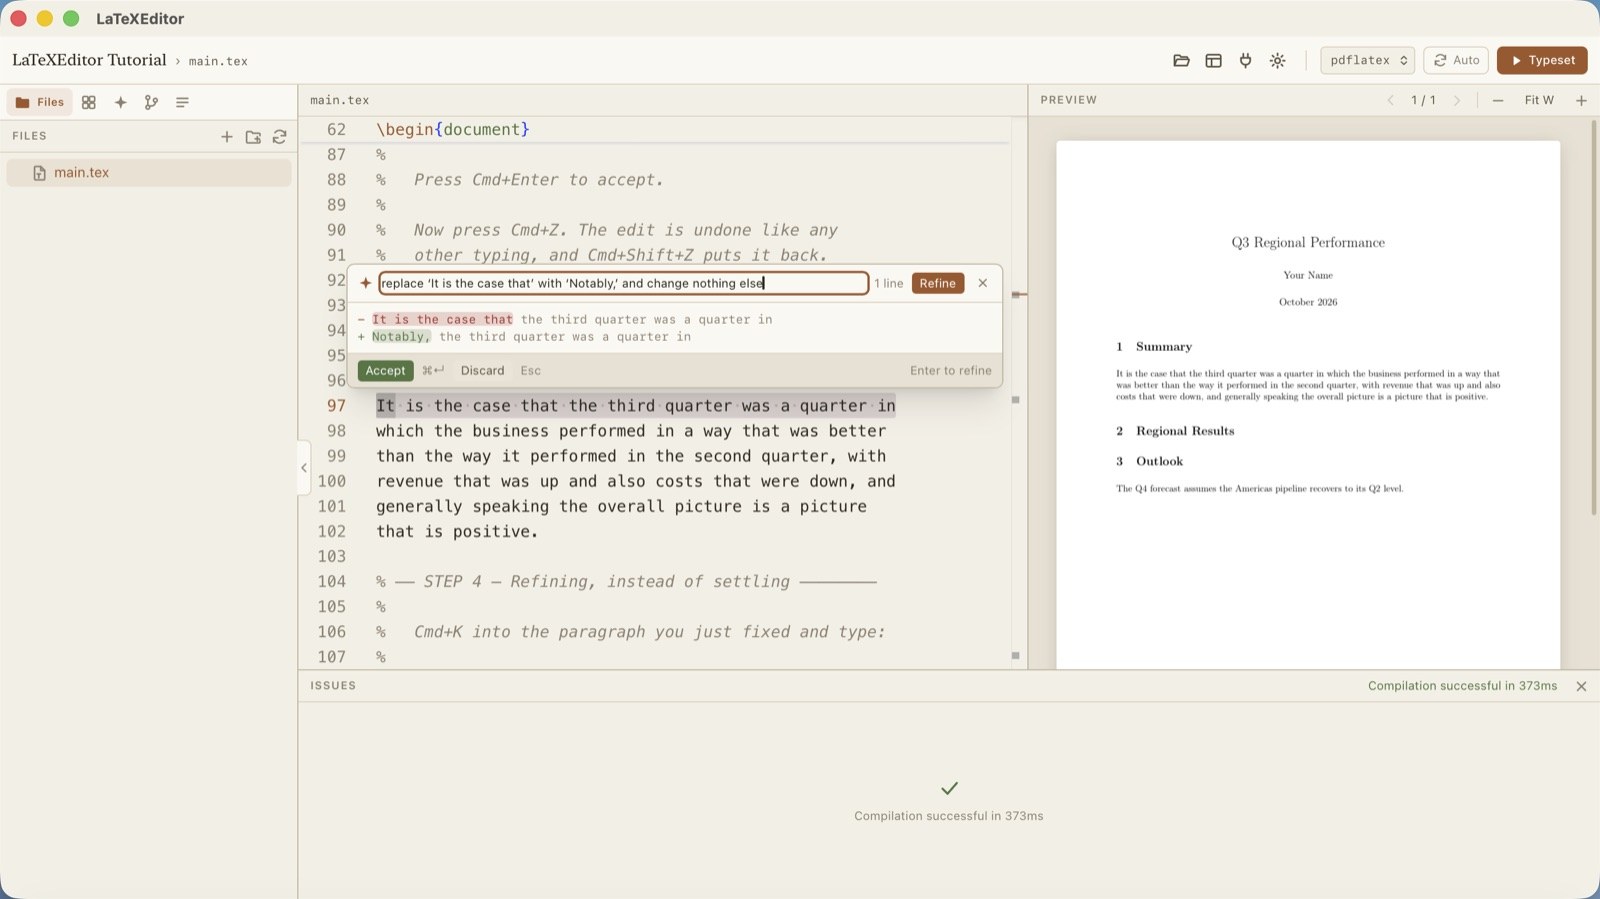
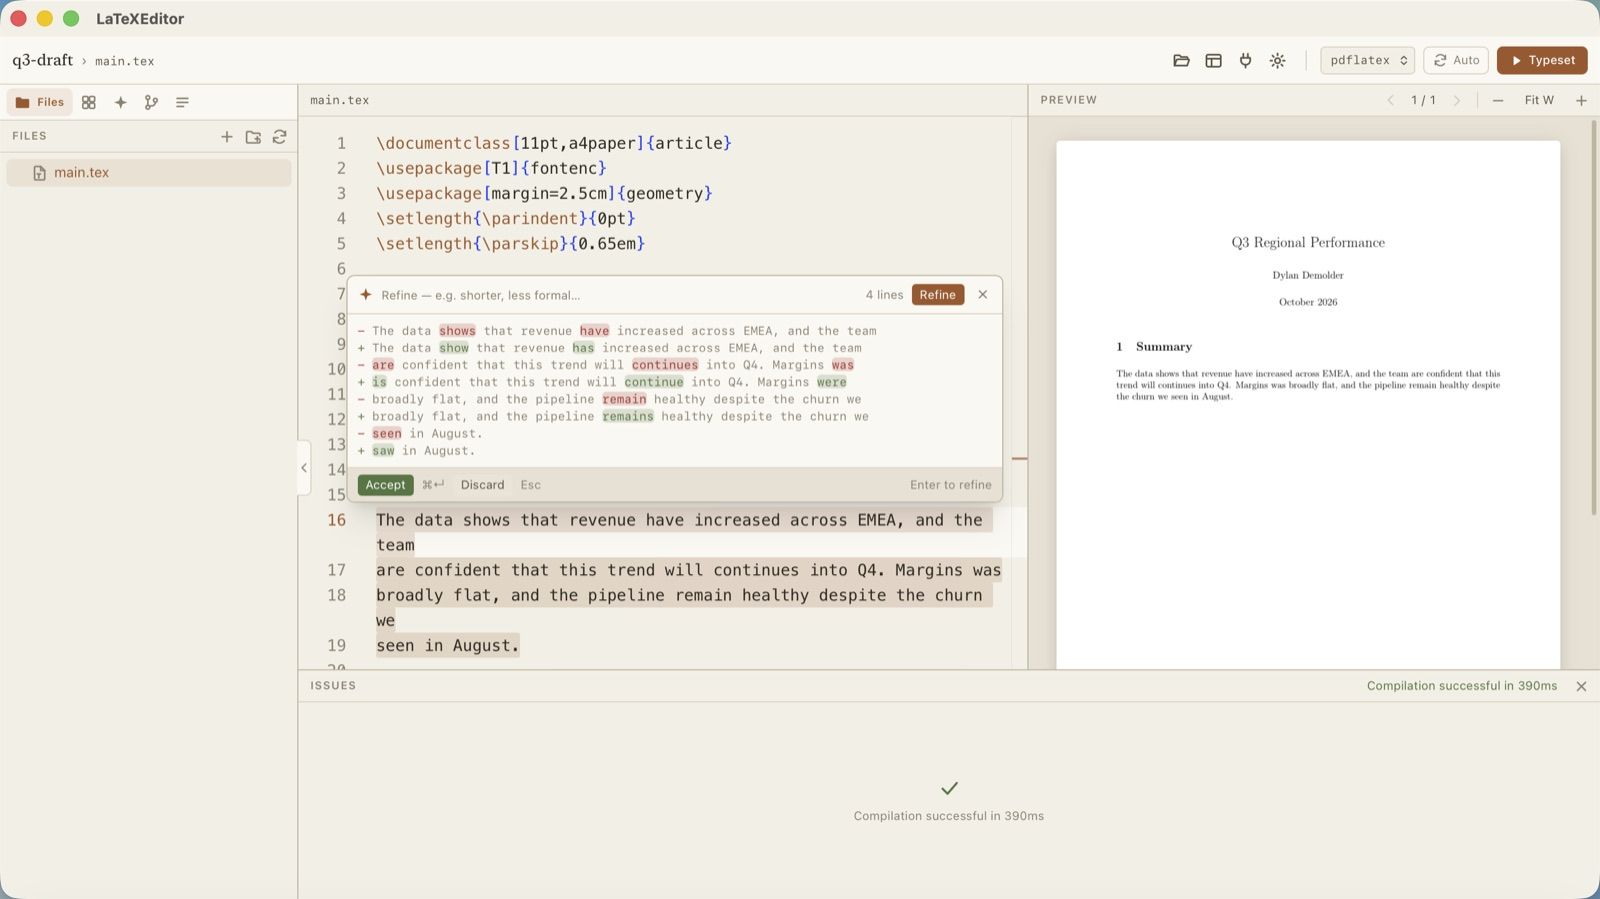
Judge word-diff pairing per line, and show a diff worth looking at
Trying to capture a better screenshot exposed a real flaw. Pairing was
decided for a whole removed/added run at once: if any one line failed the
readability check, every line in the run fell back to plain +/- lines. A
two-line edit where the first line was heavily reworked and the second
lost a single clause rendered both as plain lines, throwing away the
pairing on the one that would have read perfectly well.

Each line is now judged on its own. Unpaired lines keep their before and
after adjacent so they still read as one change. Regression guard added
for a mixed run.

The screenshot it was blocking: proofreading a rough draft paragraph with
seven independent agreement errors. All four lines pair, each with its
own tinted corrections — shows/show, have/has, are/is, continues/continue,
was/were, remain/remains, seen/saw. That is the case the feature exists
for, and what the previous screenshot failed to show: it used an exact
find-and-replace instruction, which produces a single contiguous run that
a plain line diff would have conveyed just as well.

Worth recording why the earlier attempts failed. On wordy prose the model
collapses lines — six into three, two into one — so the runs are unequal
and there is no honest pairing to draw. Pairing fires on corrective edits
that preserve length, which is exactly the proofreading case.

diff --git a/src/lib/word-diff.ts b/src/lib/word-diff.ts
@@ -162,30 +162,35 @@ export function annotate(
     }
 
     if (removed.length > 0 && removed.length === added.length) {
-      let paired = true;
-      const pairs: ChangedPair[] = [];
+      // Decide line by line, not for the whole run at once. Judging the group
+      // as a unit meant one unreadable line dragged its neighbours down with
+      // it: a two-line edit where the first was heavily reworked and the
+      // second lost a single clause rendered *both* as plain lines, throwing
+      // away the pairing on the one that would have read perfectly well.
+      const pairs: AnnotatedLine[] = [];
 
       for (let k = 0; k < removed.length; k++) {
         const parts = wordDiff(removed[k], added[k]);
-        if (!parts || !isReadablePair(parts)) {
-          paired = false;
-          break;
+        if (parts && isReadablePair(parts)) {
+          pairs.push({
+            kind: "pair",
+            before: parts.filter((p) => p.op !== "+"),
+            after: parts.filter((p) => p.op !== "-"),
+          });
+        } else {
+          // Keep this line's before and after adjacent, so it still reads as
+          // one change rather than drifting apart from its counterpart.
+          pairs.push({ op: "-", text: removed[k] });
+          pairs.push({ op: "+", text: added[k] });
         }
-        pairs.push({
-          kind: "pair",
-          before: parts.filter((p) => p.op !== "+"),
-          after: parts.filter((p) => p.op !== "-"),
-        });
       }
-
-      if (paired) {
-        out.push(...pairs);
-        idx = scan;
-        continue;
-      }
+      out.push(...pairs);
+      idx = scan;
+      continue;
     }
 
-    // No usable pairing — emit the runs unchanged.
+    // Unequal run lengths: there is no honest line-to-line correspondence to
+    // draw, so emit the removed run as-is and let the added run follow.
     removed.forEach((text) => out.push({ op: "-", text }));
   }
 

diff --git a/src/lib/word-diff.check.ts b/src/lib/word-diff.check.ts
@@ -115,6 +115,22 @@ assert.ok(
   `unrelated lines must not be paired: ${JSON.stringify(confetti)}`
 );
 
+// A mixed run: one line too rewritten to pair, one a clean one-word fix.
+// Each is judged on its own. Judging the run as a unit meant a single
+// unreadable line dragged its neighbours down with it, throwing away the
+// pairing on lines that would have read perfectly well.
+const mixed = annotate(
+  lineDiff("alpha beta gamma\nthe cat sat on the mat", "zulu yankee xray\nthe dog sat on the mat")!
+);
+assert.equal(mixed.length, 3, `expected two plain lines and one pair: ${JSON.stringify(mixed)}`);
+assert.equal((mixed[0] as { op: string }).op, "-");
+assert.equal((mixed[1] as { op: string }).op, "+");
+assert.equal((mixed[2] as ChangedPair).kind, "pair");
+// The unpaired line keeps its before and after adjacent, so it still reads as
+// one change rather than drifting apart from its counterpart.
+assert.equal((mixed[0] as { text: string }).text, "alpha beta gamma");
+assert.equal((mixed[1] as { text: string }).text, "zulu yankee xray");
+
 // ...but a one-word fix inside an otherwise intact line always pairs. This is
 // the everyday case: the whole feature exists for it.
 const everyday = annotate(

diff --git a/README.md b/README.md
@@ -43,7 +43,7 @@ Type an instruction, or click a preset. Then:
 | `⌘↵` | Accept, writing back into the captured range |
 | `Esc` | Discard, or stop a run in flight |
 
-![Cmd+K open on a paragraph, showing a proposed diff](docs/screenshots/02-inline-cmdk.jpg)
+![Cmd+K open on a draft paragraph, proposing seven corrections](docs/screenshots/02-inline-cmdk.jpg)
 
 Refinements re-run against the **original** text, not the previous answer. Ask
 for "shorter" three times and you get three attempts at the same task, not a
@@ -51,16 +51,19 @@ paragraph whittled away to nothing.
 
 ### Diffs you can actually read
 
-A line diff shows a one-word fix as a whole line deleted and a whole line added,
-and leaves you to spot the difference. So where a line was reworded rather than
-replaced, only the changed words are tinted:
+A line diff shows a fix as a whole line deleted and a whole line added, and
+leaves you to find the difference. Proofreading a rough draft, that means four
+red lines and four green ones to compare by eye. Here is the same edit with the
+changed words tinted and everything else dimmed:
 
-![A word-level diff, with only the changed phrase tinted](docs/screenshots/03-word-diff.jpg)
+![A word-level diff: seven corrections tinted across four lines, the rest dimmed](docs/screenshots/03-word-diff.jpg)
 
-Everything unchanged is dimmed. Your eye goes straight to the edit instead of
-re-reading the sentence to find it.
+Seven independent corrections — `shows`/`show`, `have`/`has`, `are`/`is`,
+`continues`/`continue`, `was`/`were`, `remain`/`remains`, `seen`/`saw` — and you
+can see every one of them without reading a word of the unchanged text.
 
-Pairing happens only where it helps. Lines that share no wording, or whose
+Each line is judged on its own, so one heavily-rewritten line does not stop its
+neighbours from pairing. Pairing happens only where it helps. Lines that share no wording, or whose
 changes are scattered across many runs, stay as plain line pairs — a word diff
 there is confetti. That judgement is measured, not guessed: the heuristic counts
 *change runs and surviving anchor words*, because the obvious metric
